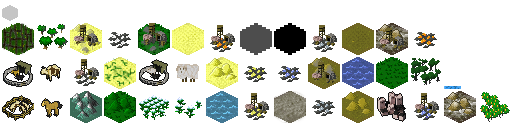
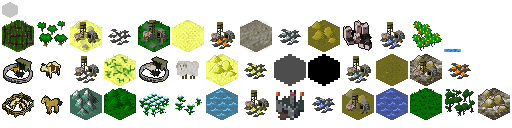
TileImprovement: Implement fort improvement for rome

diff --git a/core/src/main/java/me/rhin/openciv/game/unit/type/Builder.java b/core/src/main/java/me/rhin/openciv/game/unit/type/Builder.java
@@ -6,6 +6,8 @@ import java.util.List;
 import me.rhin.openciv.Civilization;
 import me.rhin.openciv.asset.TextureEnum;
 import me.rhin.openciv.game.city.City;
+import me.rhin.openciv.game.civilization.type.Rome;
+import me.rhin.openciv.game.heritage.type.rome.DefensiveLogisticsHeritage;
 import me.rhin.openciv.game.map.tile.ImprovementType;
 import me.rhin.openciv.game.map.tile.Tile;
 import me.rhin.openciv.game.map.tile.TileType;
@@ -49,6 +51,7 @@ public class Builder extends UnitItem {
 			customActions.add(new PlantationAction(this));
 			customActions.add(new RoadAction(this));
 			customActions.add(new ClearAction(this));
+			customActions.add(new FortAction(this));
 			this.canAttack = false;
 			this.building = false;
 
@@ -360,7 +363,7 @@ public class Builder extends UnitItem {
 			return TextureEnum.ICON_CHOP;
 		}
 	}
-	
+
 	public static class PastureAction extends AbstractAction {
 
 		public PastureAction(Unit unit) {
@@ -477,6 +480,61 @@ public class Builder extends UnitItem {
 		@Override
 		public TextureEnum getSprite() {
 			return TileType.valueOf(unit.getStandingTile().getBaseTileType().name() + "_IMPROVED").getTextureEnum();
+		}
+	}
+
+	public static class FortAction extends AbstractAction {
+
+		public FortAction(Unit unit) {
+			super(unit);
+		}
+
+		@Override
+		public boolean act(float delta) {
+			// unit.getPlayerOwner().unselectUnit();
+			unit.reduceMovement(2);
+			WorkTilePacket packet = new WorkTilePacket();
+			packet.setTile("fort", unit.getStandingTile().getGridX(), unit.getStandingTile().getGridY());
+			Civilization.getInstance().getNetworkManager().sendPacket(packet);
+			// unit.removeAction(this);
+
+			BuilderUnit builderUnit = (BuilderUnit) unit;
+			builderUnit.setBuilding(true);
+			builderUnit.setImprovementType(ImprovementType.FORT);
+
+			Civilization.getInstance().getEventManager().fireEvent(new UnitActEvent(unit));
+
+			unit.removeAction(this);
+			return true;
+		}
+
+		@Override
+		public boolean canAct() {
+			Tile tile = unit.getStandingTile();
+
+			if (!unit.getPlayerOwner().getHeritageTree().hasStudied(DefensiveLogisticsHeritage.class)) {
+				return false;
+			}
+
+			boolean farmableTile = !tile.isImproved() && !tile.containsTileType(TileType.FOREST)
+					&& !tile.containsTileType(TileType.JUNGLE);
+
+			BuilderUnit builderUnit = (BuilderUnit) unit;
+			if (unit.getCurrentMovement() < 1 || !farmableTile || builderUnit.isBuilding()) {
+				return false;
+			}
+
+			return true;
+		}
+
+		@Override
+		public String getName() {
+			return "Fort";
+		}
+
+		@Override
+		public TextureEnum getSprite() {
+			return TextureEnum.TILE_FORT;
 		}
 	}
 

diff --git a/server/src/main/java/me/rhin/openciv/server/game/map/tile/TileType.java b/server/src/main/java/me/rhin/openciv/server/game/map/tile/TileType.java
@@ -8,6 +8,7 @@ import java.util.Random;
 import me.rhin.openciv.server.game.map.tile.improvement.ChopImprovement;
 import me.rhin.openciv.server.game.map.tile.improvement.ClearImprovement;
 import me.rhin.openciv.server.game.map.tile.improvement.FarmImprovement;
+import me.rhin.openciv.server.game.map.tile.improvement.FortImprovement;
 import me.rhin.openciv.server.game.map.tile.improvement.MineImprovement;
 import me.rhin.openciv.server.game.map.tile.improvement.PastureImprovement;
 import me.rhin.openciv.server.game.map.tile.improvement.PlantationImprovement;
@@ -441,6 +442,18 @@ public enum TileType implements Comparable<TileType> {
 		public float getMovementCost() {
 			return 0.5f;
 		}
+	},
+
+	FORT(TileLayer.MIDDLE) {
+		@Override
+		public StatLine getStatLine() {
+			return new StatLine();
+		}
+
+		@Override
+		public float getMovementCost() {
+			return 0.5f;
+		}
 	};
 
 	public enum TileLayer {
@@ -534,6 +547,9 @@ public enum TileType implements Comparable<TileType> {
 	TileImprovement getImprovement(String improvementName) {
 		if (improvementName.equals("road"))
 			return new RoadImprovement();
+//FIXME: Do this a better way?`
+		if (improvementName.equals("fort"))
+			return new FortImprovement();
 
 		for (TileImprovement tileImprovement : getImprovements()) {
 			if (tileImprovement.getName().equals(improvementName))

diff --git a/core/src/main/java/me/rhin/openciv/game/map/tile/TileType.java b/core/src/main/java/me/rhin/openciv/game/map/tile/TileType.java
@@ -40,6 +40,7 @@ public enum TileType {
 	HORSES_IMPROVED(TextureEnum.TILE_HORSES_IMPROVED, TileLayer.MIDDLE, TileProperty.IMPROVEMENT),
 	CATTLE_IMPROVED(TextureEnum.TILE_CATTLE_IMPROVED, TileLayer.MIDDLE, TileProperty.IMPROVEMENT),
 	SHEEP_IMPROVED(TextureEnum.TILE_SHEEP_IMPROVED, TileLayer.MIDDLE, TileProperty.IMPROVEMENT),
+	FORT(TextureEnum.TILE_FORT, TileLayer.MIDDLE, TileProperty.IMPROVEMENT),
 	ROAD(0.5F, TileProperty.ROAD);
 
 	public enum TileLayer {

diff --git a/server/src/main/java/me/rhin/openciv/server/game/heritage/type/rome/DefensiveLogisticsHeritage.java b/server/src/main/java/me/rhin/openciv/server/game/heritage/type/rome/DefensiveLogisticsHeritage.java
@@ -11,7 +11,7 @@ public class DefensiveLogisticsHeritage extends Heritage {
 
 	@Override
 	public int getLevel() {
-		return 2;
+		return 1;
 	}
 
 	@Override
@@ -21,11 +21,11 @@ public class DefensiveLogisticsHeritage extends Heritage {
 
 	@Override
 	public float getCost() {
-		return 60;
+		return 40;
 	}
 
 	@Override
 	protected void onStudied() {
-		// TODO: No idea.
+		
 	}
 }

diff --git a/server/src/main/java/me/rhin/openciv/server/game/state/InGameState.java b/server/src/main/java/me/rhin/openciv/server/game/state/InGameState.java
@@ -634,6 +634,9 @@ public class InGameState extends GameState
 		AttackableEntity targetEntity = map.getTiles()[packet.getTargetGridX()][packet.getTargetGridY()]
 				.getEnemyAttackableEntity(playerOwner);
 
+		if (attackingEntity == null)
+			return;
+
 		if (attackingEntity instanceof RangedUnit) {
 			packet.setUnitDamage(0);
 		} else

diff --git a/core/src/main/java/me/rhin/openciv/game/heritage/type/rome/DefensiveLogisticsHeritage.java b/core/src/main/java/me/rhin/openciv/game/heritage/type/rome/DefensiveLogisticsHeritage.java
@@ -9,7 +9,7 @@ public class DefensiveLogisticsHeritage extends Heritage {
 
 	@Override
 	public int getLevel() {
-		return 2;
+		return 1;
 	}
 
 	@Override
@@ -24,7 +24,7 @@ public class DefensiveLogisticsHeritage extends Heritage {
 
 	@Override
 	public float getCost() {
-		return 60;
+		return 40;
 	}
 
 	@Override

diff --git a/server/src/main/java/me/rhin/openciv/server/game/map/tile/improvement/FortImprovement.java b/server/src/main/java/me/rhin/openciv/server/game/map/tile/improvement/FortImprovement.java
@@ -1,0 +1,15 @@
+package me.rhin.openciv.server.game.map.tile.improvement;
+
+import me.rhin.openciv.server.game.map.tile.TileType;
+
+public class FortImprovement extends TileImprovement {
+
+	public FortImprovement() {
+		super(TileType.FORT, 7);
+	}
+
+	@Override
+	public String getName() {
+		return "fort";
+	}
+}

diff --git a/core/src/main/java/me/rhin/openciv/game/map/tile/ImprovementType.java b/core/src/main/java/me/rhin/openciv/game/map/tile/ImprovementType.java
@@ -7,7 +7,8 @@ public enum ImprovementType {
 	CHOP("Clearing Forest", 3),
 	PLANTATION("Building Plantation", 5),
 	ROAD("Building Road", 3),
-	CLEAR("Clearing Jungle", 3);
+	CLEAR("Clearing Jungle", 3),
+	FORT("Building Fort", 7);
 
 	private String improvementDesc;
 	private int maxTurns;

diff --git a/server/src/main/java/me/rhin/openciv/server/game/map/tile/Tile.java b/server/src/main/java/me/rhin/openciv/server/game/map/tile/Tile.java
@@ -594,6 +594,9 @@ public class Tile {
 		if (containsTileType(TileType.FOREST) || containsTileType(TileType.JUNGLE))
 			combatModifier -= 0.10;
 
+		if (containsTileType(TileType.FORT))
+			combatModifier -= 0.25;
+
 		return combatModifier;
 	}
 

diff --git a/core/src/main/java/me/rhin/openciv/asset/TextureEnum.java b/core/src/main/java/me/rhin/openciv/asset/TextureEnum.java
@@ -50,6 +50,7 @@ public enum TextureEnum {
 	TILE_SELECT,
 	TILE_UNDISCOVERED,
 	TILE_NON_VISIBLE,
+	TILE_FORT,
 	UNIT_SETTLER,
 	UNIT_WARRIOR,
 	UNIT_SCOUT,
